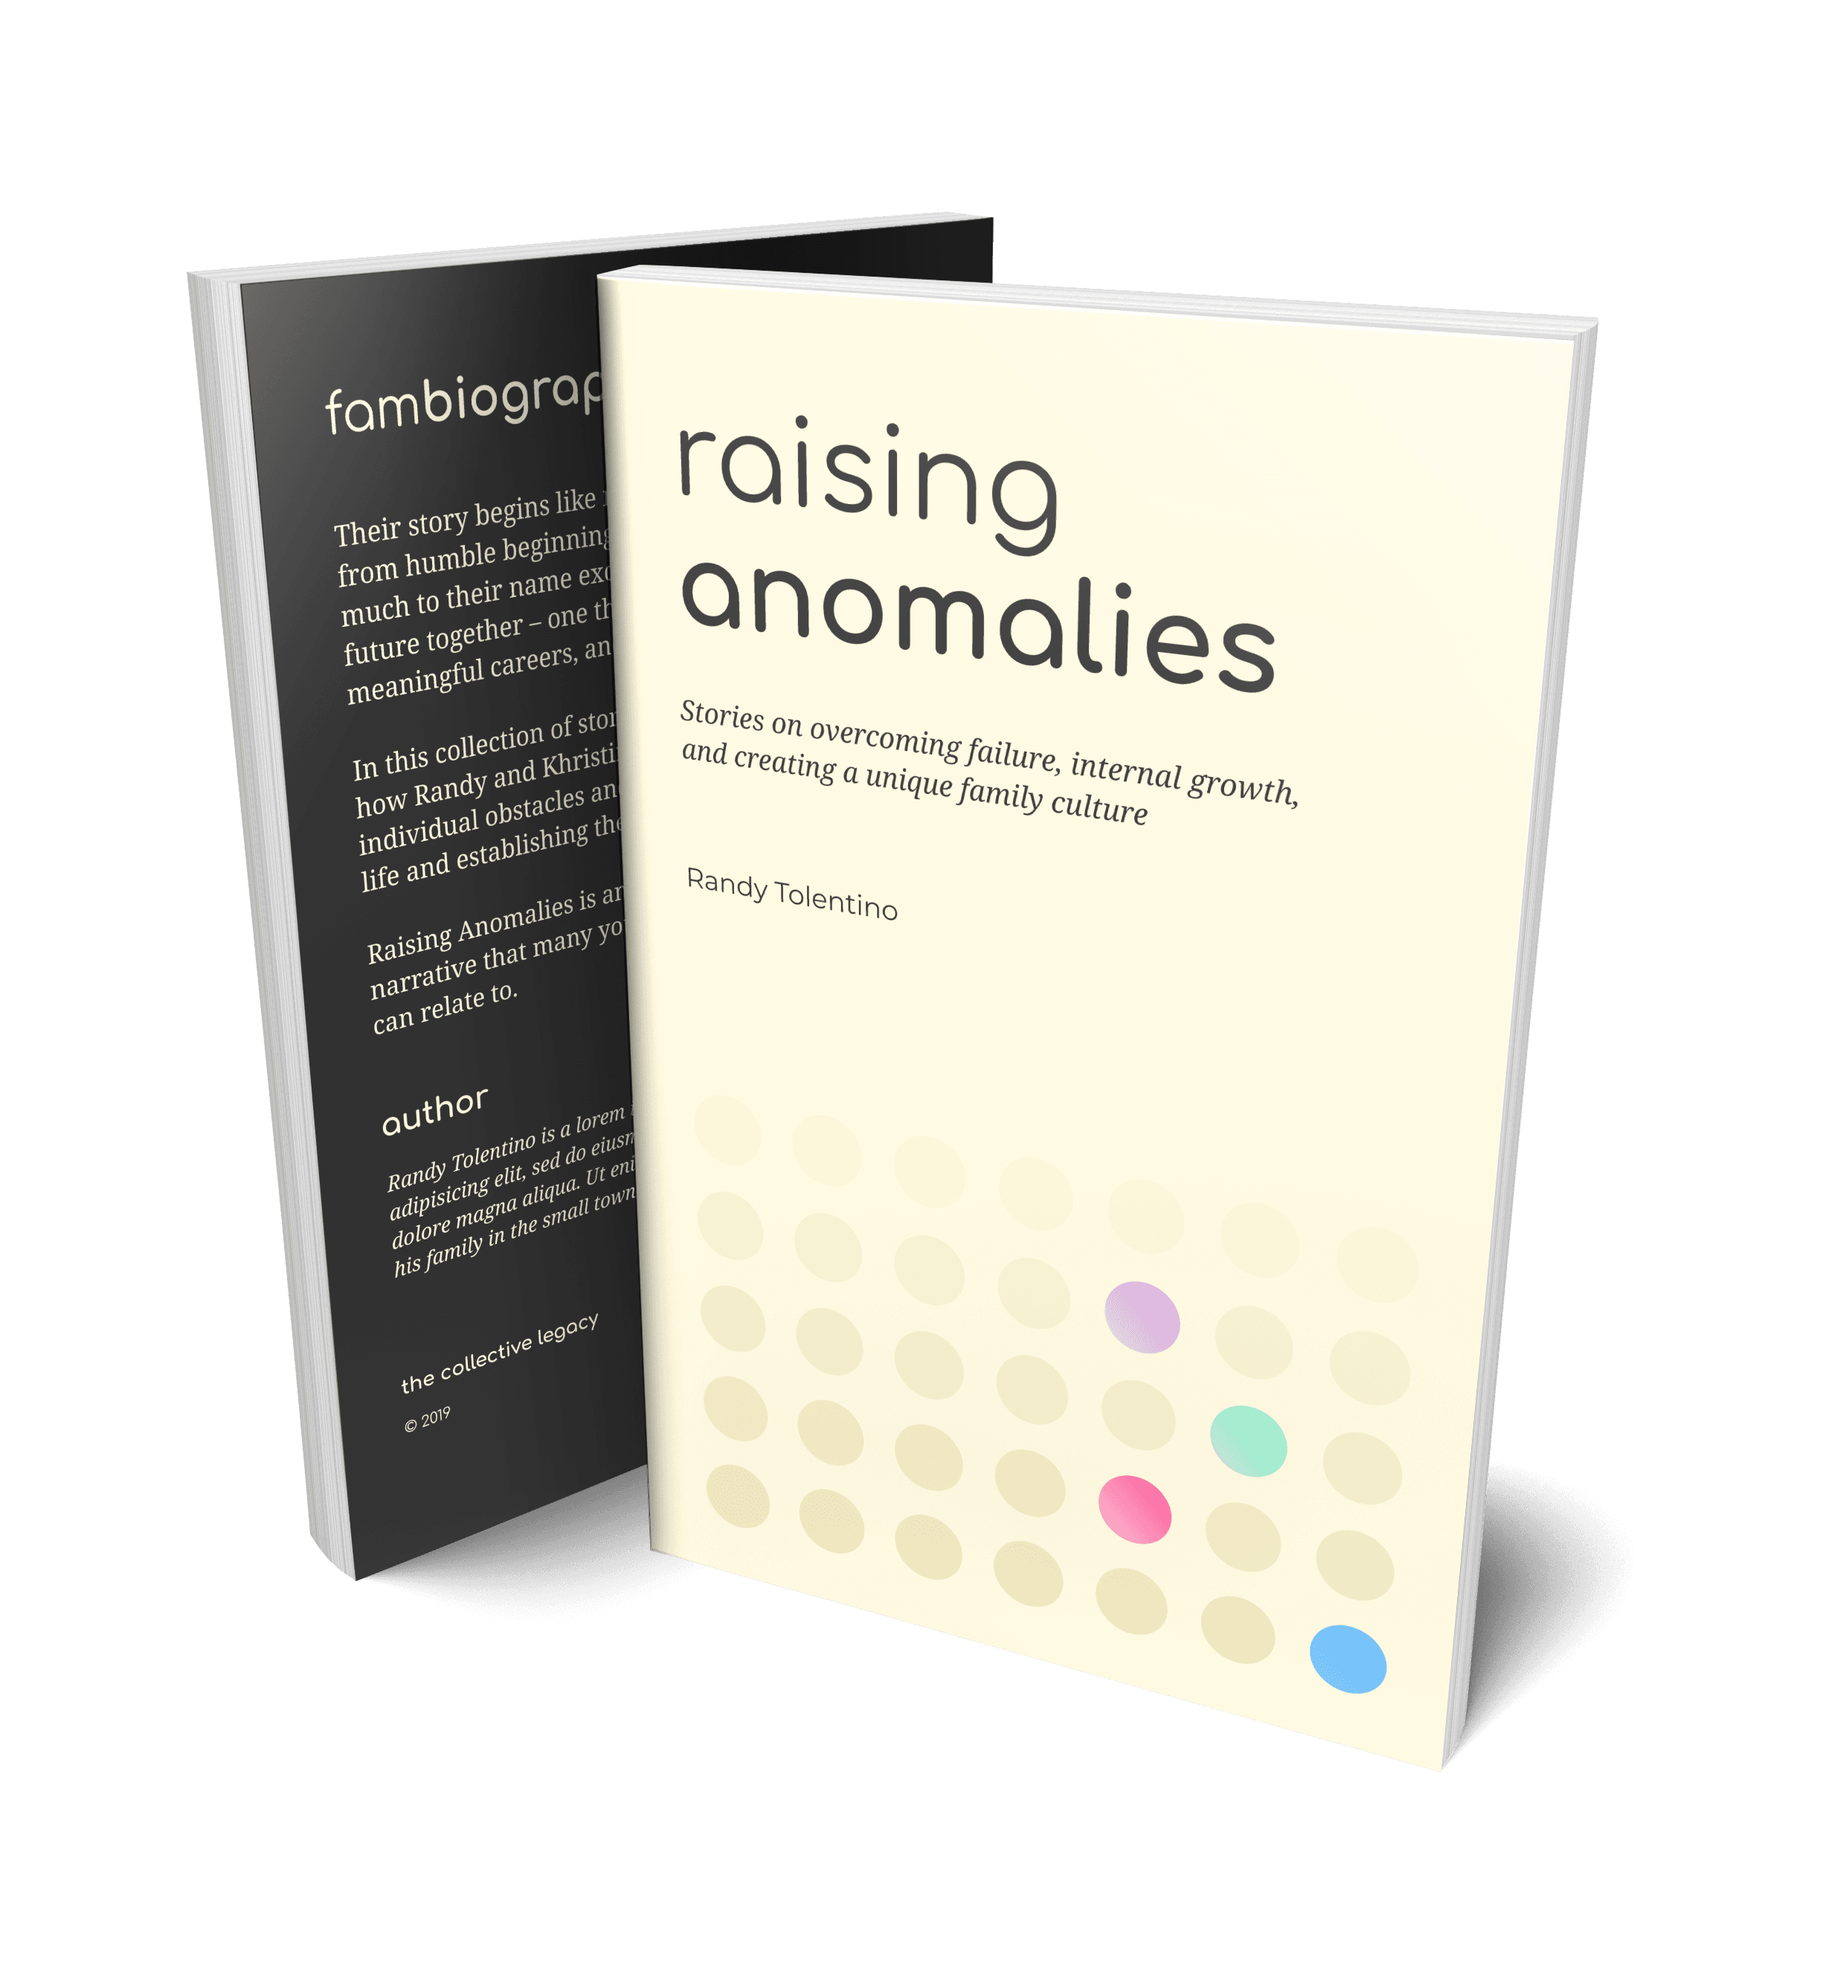
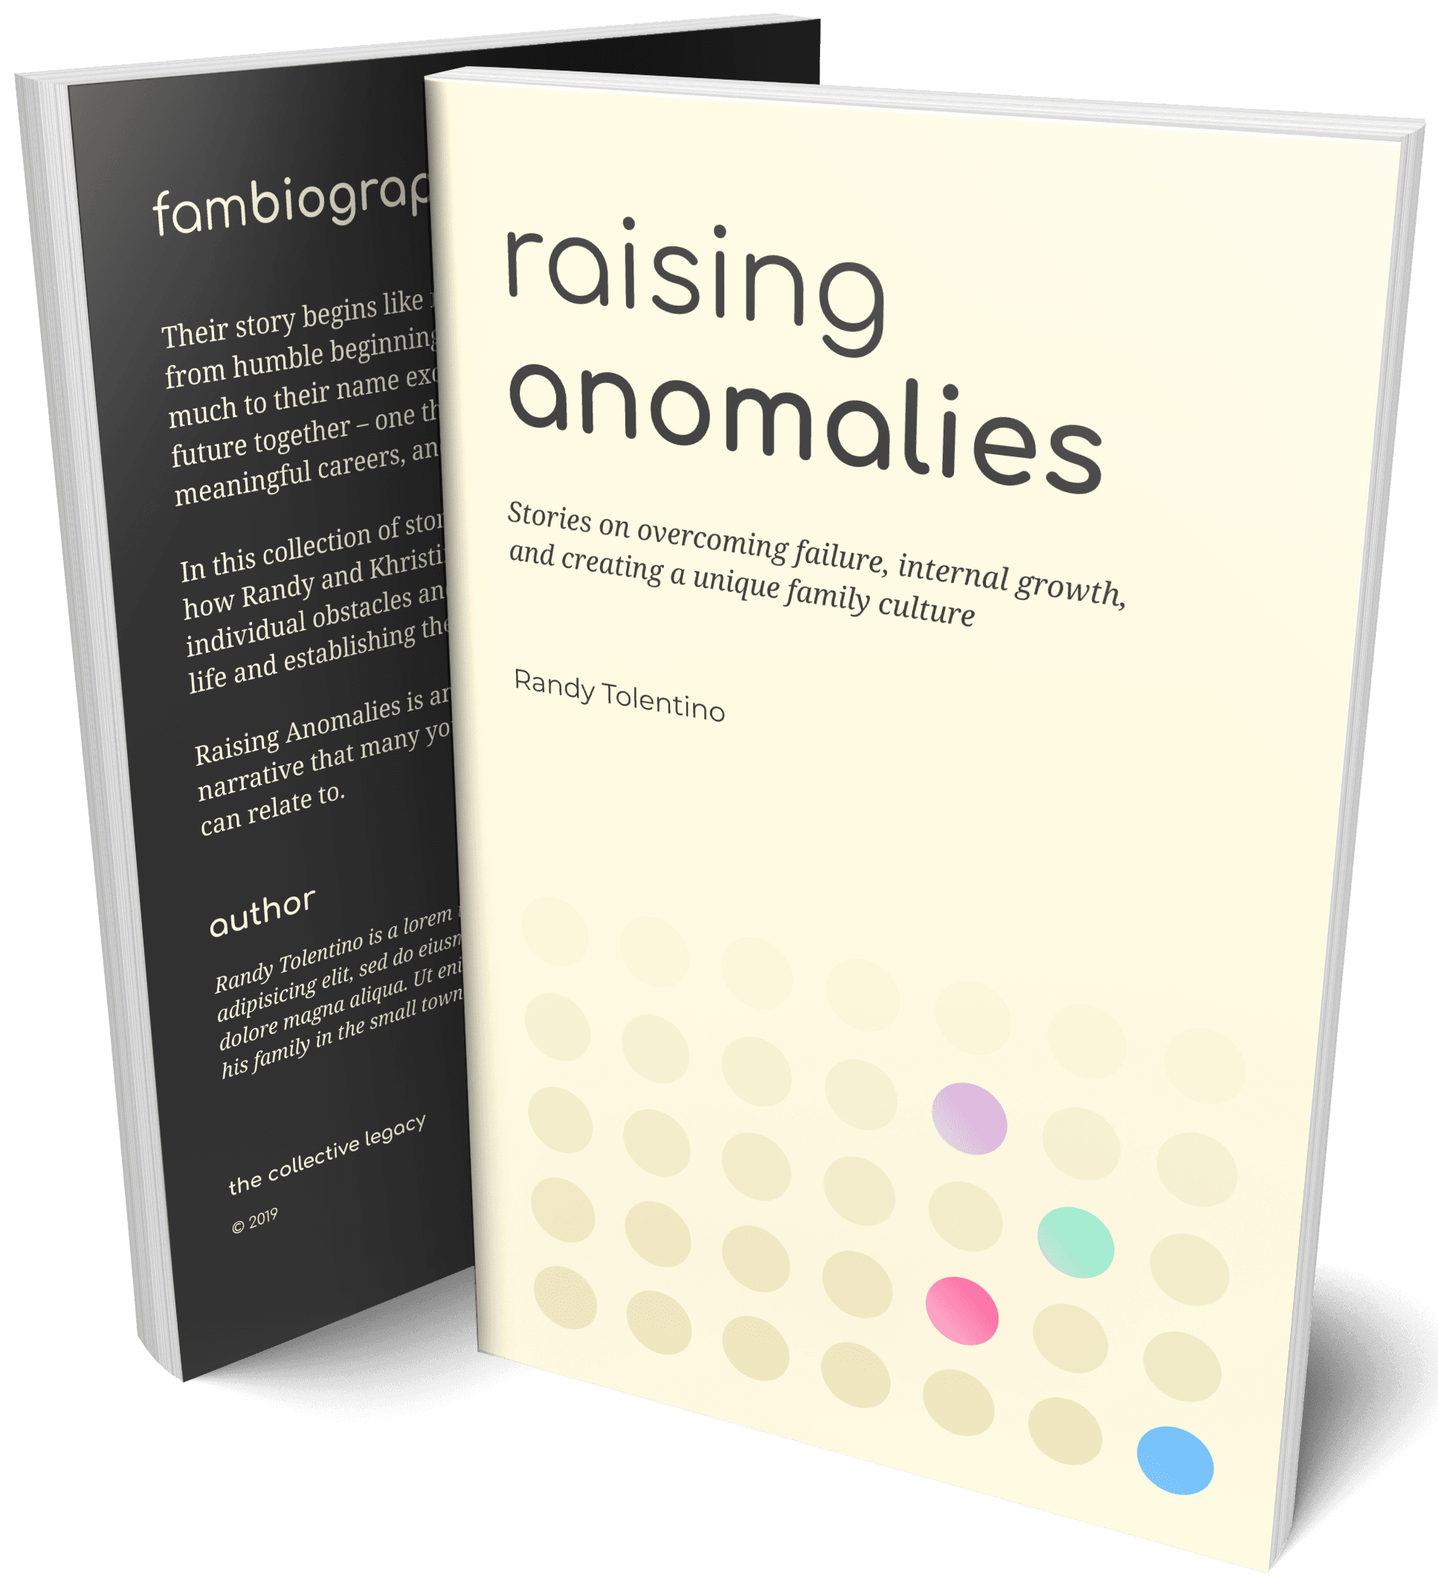
update nav

diff --git a/src/components/header.js b/src/components/header.js
@@ -26,6 +26,8 @@ export default ({ children }) => {
   )
 
   const HeaderCont = styled.div`
+    background: #171717;
+    
     @media (max-width: 767px) {
       .nav-cont {
         position: fixed;
@@ -74,6 +76,9 @@ export default ({ children }) => {
       justify-content: space-between;
       padding: .5rem 2rem;
       background-color: #171717;
+      max-width: 1080px;
+      margin: 0 auto;
+      
 
       .logo-cont {
         display: block;
@@ -130,7 +135,7 @@ export default ({ children }) => {
   `
 
   return (
-    <HeaderCont>
+    <HeaderCont className="header">
       <div className={`${menuStatus ? "menu-open" : "menu-closed"}`}>
         <header className="header-cont">
           <div className="logo-cont">
@@ -143,8 +148,7 @@ export default ({ children }) => {
           </button>
           <nav className="nav-cont">
             <ul>
-              <ListLink to="/">Home</ListLink>
-              {/* <ListLink to="/profile/">Profile</ListLink> */}
+              <ListLink to="/author">Author</ListLink>
               <ListLink to="/blog/">Blog</ListLink>
               <ListLink to="/contact/">Contact</ListLink>
             </ul>

diff --git a/src/scss/main.scss b/src/scss/main.scss
@@ -1,10 +1,15 @@
 @import "./variables", "./content", "./hero", "./page", "./updates";
+@import url('https://fonts.googleapis.com/css?family=Comfortaa:300,400,600&display=swap');
 
 :root {
   --heavyWeight: 900;
   --transMed: 0.3s;
   --black: #323232;
   --primaryColor: #0027ec;
+}
+
+* {
+  box-sizing: border-box;
 }
 
 body {
@@ -19,6 +24,21 @@ body {
   &-title {
     font-size: 4rem;
     margin-bottom: 1.5rem;
+    font-family: 'Comfortaa', cursive;
+    font-weight: 300;
+    margin-top: 1rem;
+    
+    @media(max-width: 480px) {
+      font-size: 3rem;
+    }
+    
+    &-accent {
+      display: block;
+      padding: 0;
+      padding-bottom: .5rem;
+      margin-top: -.25rem;
+      font-weight: 600;
+    }
   }
   
   &-subtitle {
@@ -29,6 +49,11 @@ body {
     
     @media(max-width: 768px) {
       max-width: 32rem;
+    }
+    
+    @media(max-width: 480px) {
+      font-size: 1.75rem;
+      padding-bottom: 3rem;
     }
   }
 }
@@ -73,7 +98,7 @@ body {
     content: "";
     display: block;
     height: 3px;
-    background-color: $primaryColor;
+    background-color: #fff;
     position: absolute;
     width: 100%;
     left: 0;

diff --git a/src/scss/_hero.scss b/src/scss/_hero.scss
@@ -1,30 +1,42 @@
 .hero {
-  background: $primaryBackgroundColor;
-  padding: 4rem 2rem;
+  @include wrapper();
   display: flex;
   align-items: flex-start;
   justify-content: space-between;
 
   @media(max-width: 768px) {
     flex-direction: column;   
-    min-height: 30rem; 
     position: relative;
+  }
+  
+  @media(max-width: 480px) {
+    padding-top: 0;
   }
   
   .content {
     padding-right: 2rem;
   }
   
-  &-img {
-    max-width: 32rem;
-    align-self: flex-end;
+  &-img-container {
+    width: 50%;
+    padding: 2rem 0;
     
     @media(max-width: 768px) {
-      position: relative;
-      align-self: flex-start;
-      top: 0;
-      left: 0;
-      max-width: 100%;
+      width: 100%;
+      padding: 2rem 0;
+    }
+  }
+  
+  &-img {
+    width: 100%;
+    padding-top: 1rem;
+    display: block;
+    margin: 0 auto;
+    
+    @media(max-width: 768px) {
+      margin: 0;
+      width: 80%;
+      padding-top: 1rem;
     }
   }
   

diff --git a/src/pages/index.js b/src/pages/index.js
@@ -12,12 +12,14 @@ export default ({ data }) => {
       <Seo />
       <section className="hero">
         <div className="content">
-          <h1 className="main-body-title">raising anomalies</h1>
+          <h1 className="main-body-title">raising<span className="main-body-title-accent">anomalies</span></h1>
           <h2 className="main-body-subtitle">
           Stories on overcoming failure, internal growth, and creating a unique family culture.
           </h2>
         </div>
-        <img src={bookImg} className="hero-img"/>
+        <div className="hero-img-container">
+          <img src={bookImg} className="hero-img"/>
+        </div>
       </section>
       
       <section className="updates">

diff --git a/gatsby-node.js b/gatsby-node.js
@@ -18,7 +18,7 @@ exports.createPages = async ({ actions, graphql }) => {
   // Pages built using templates/page-template.js
   const pageData = [
     {
-      name: "profile",
+      name: "author",
       title:
         "Coming soon",
       content:

diff --git a/src/scss/_page.scss b/src/scss/_page.scss
@@ -1,9 +1,12 @@
 .page {
   &-standard {
-    padding: 4rem 2rem;
+    @include wrapper();
   }
   
   &-standard h1 {
+    font-family: 'Comfortaa', cursive;
+    font-weight: 600;
+    text-transform: lowercase;
     margin: 0;
   }
 }

diff --git a/src/components/footer.js b/src/components/footer.js
@@ -25,6 +25,9 @@ export default ({ children }) => {
   )
 
   const FooterCont = styled.div`
+    max-width: 1080px;
+    margin: 0 auto;
+    
     footer {
       padding: 1rem 2rem;
       display: flex;

diff --git a/src/scss/_updates.scss b/src/scss/_updates.scss
@@ -1,4 +1,8 @@
 .updates {
+  @include wrapper();
   background: #ffffff;
-  padding: 4rem 2rem;
+  h4 {
+    font-family: 'Comfortaa', cursive;
+    font-weight: 600;
+  }
 }

diff --git a/src/scss/_variables.scss b/src/scss/_variables.scss
@@ -28,3 +28,9 @@ h2,
 h3 {
     font-weight: $heavyWeight;
 }
+
+@mixin wrapper {
+    max-width: 1080px;
+    margin: 0 auto;
+    padding: 4rem 2rem;
+}
